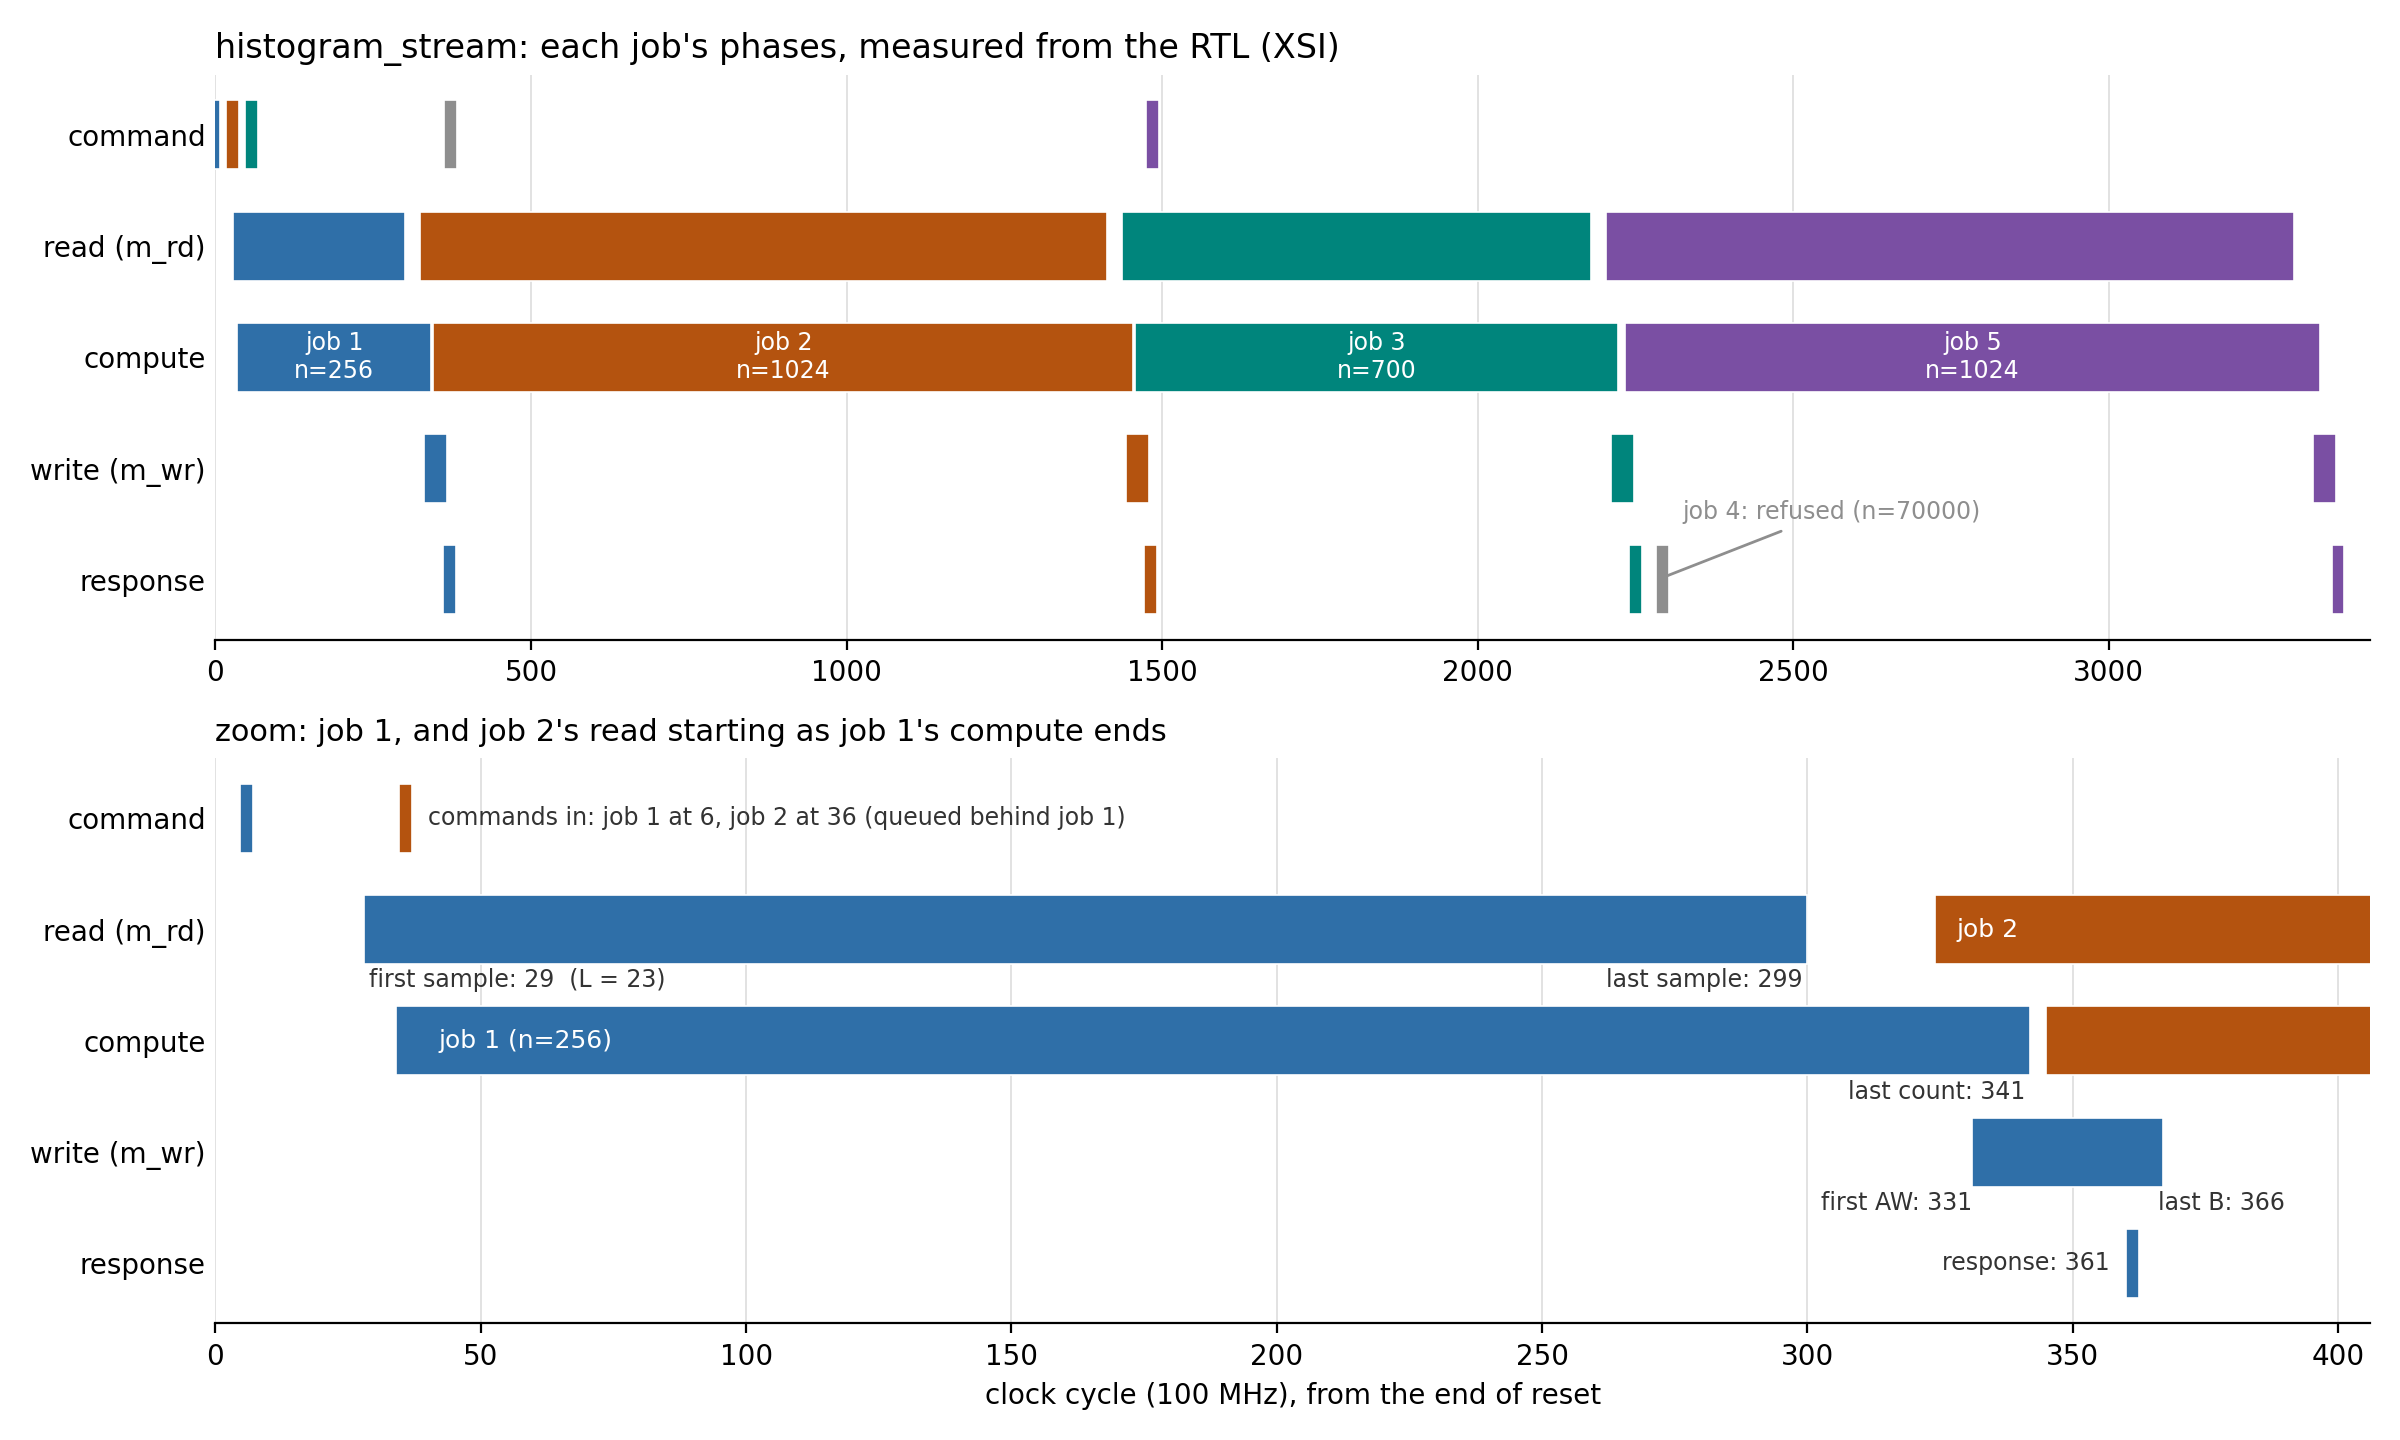
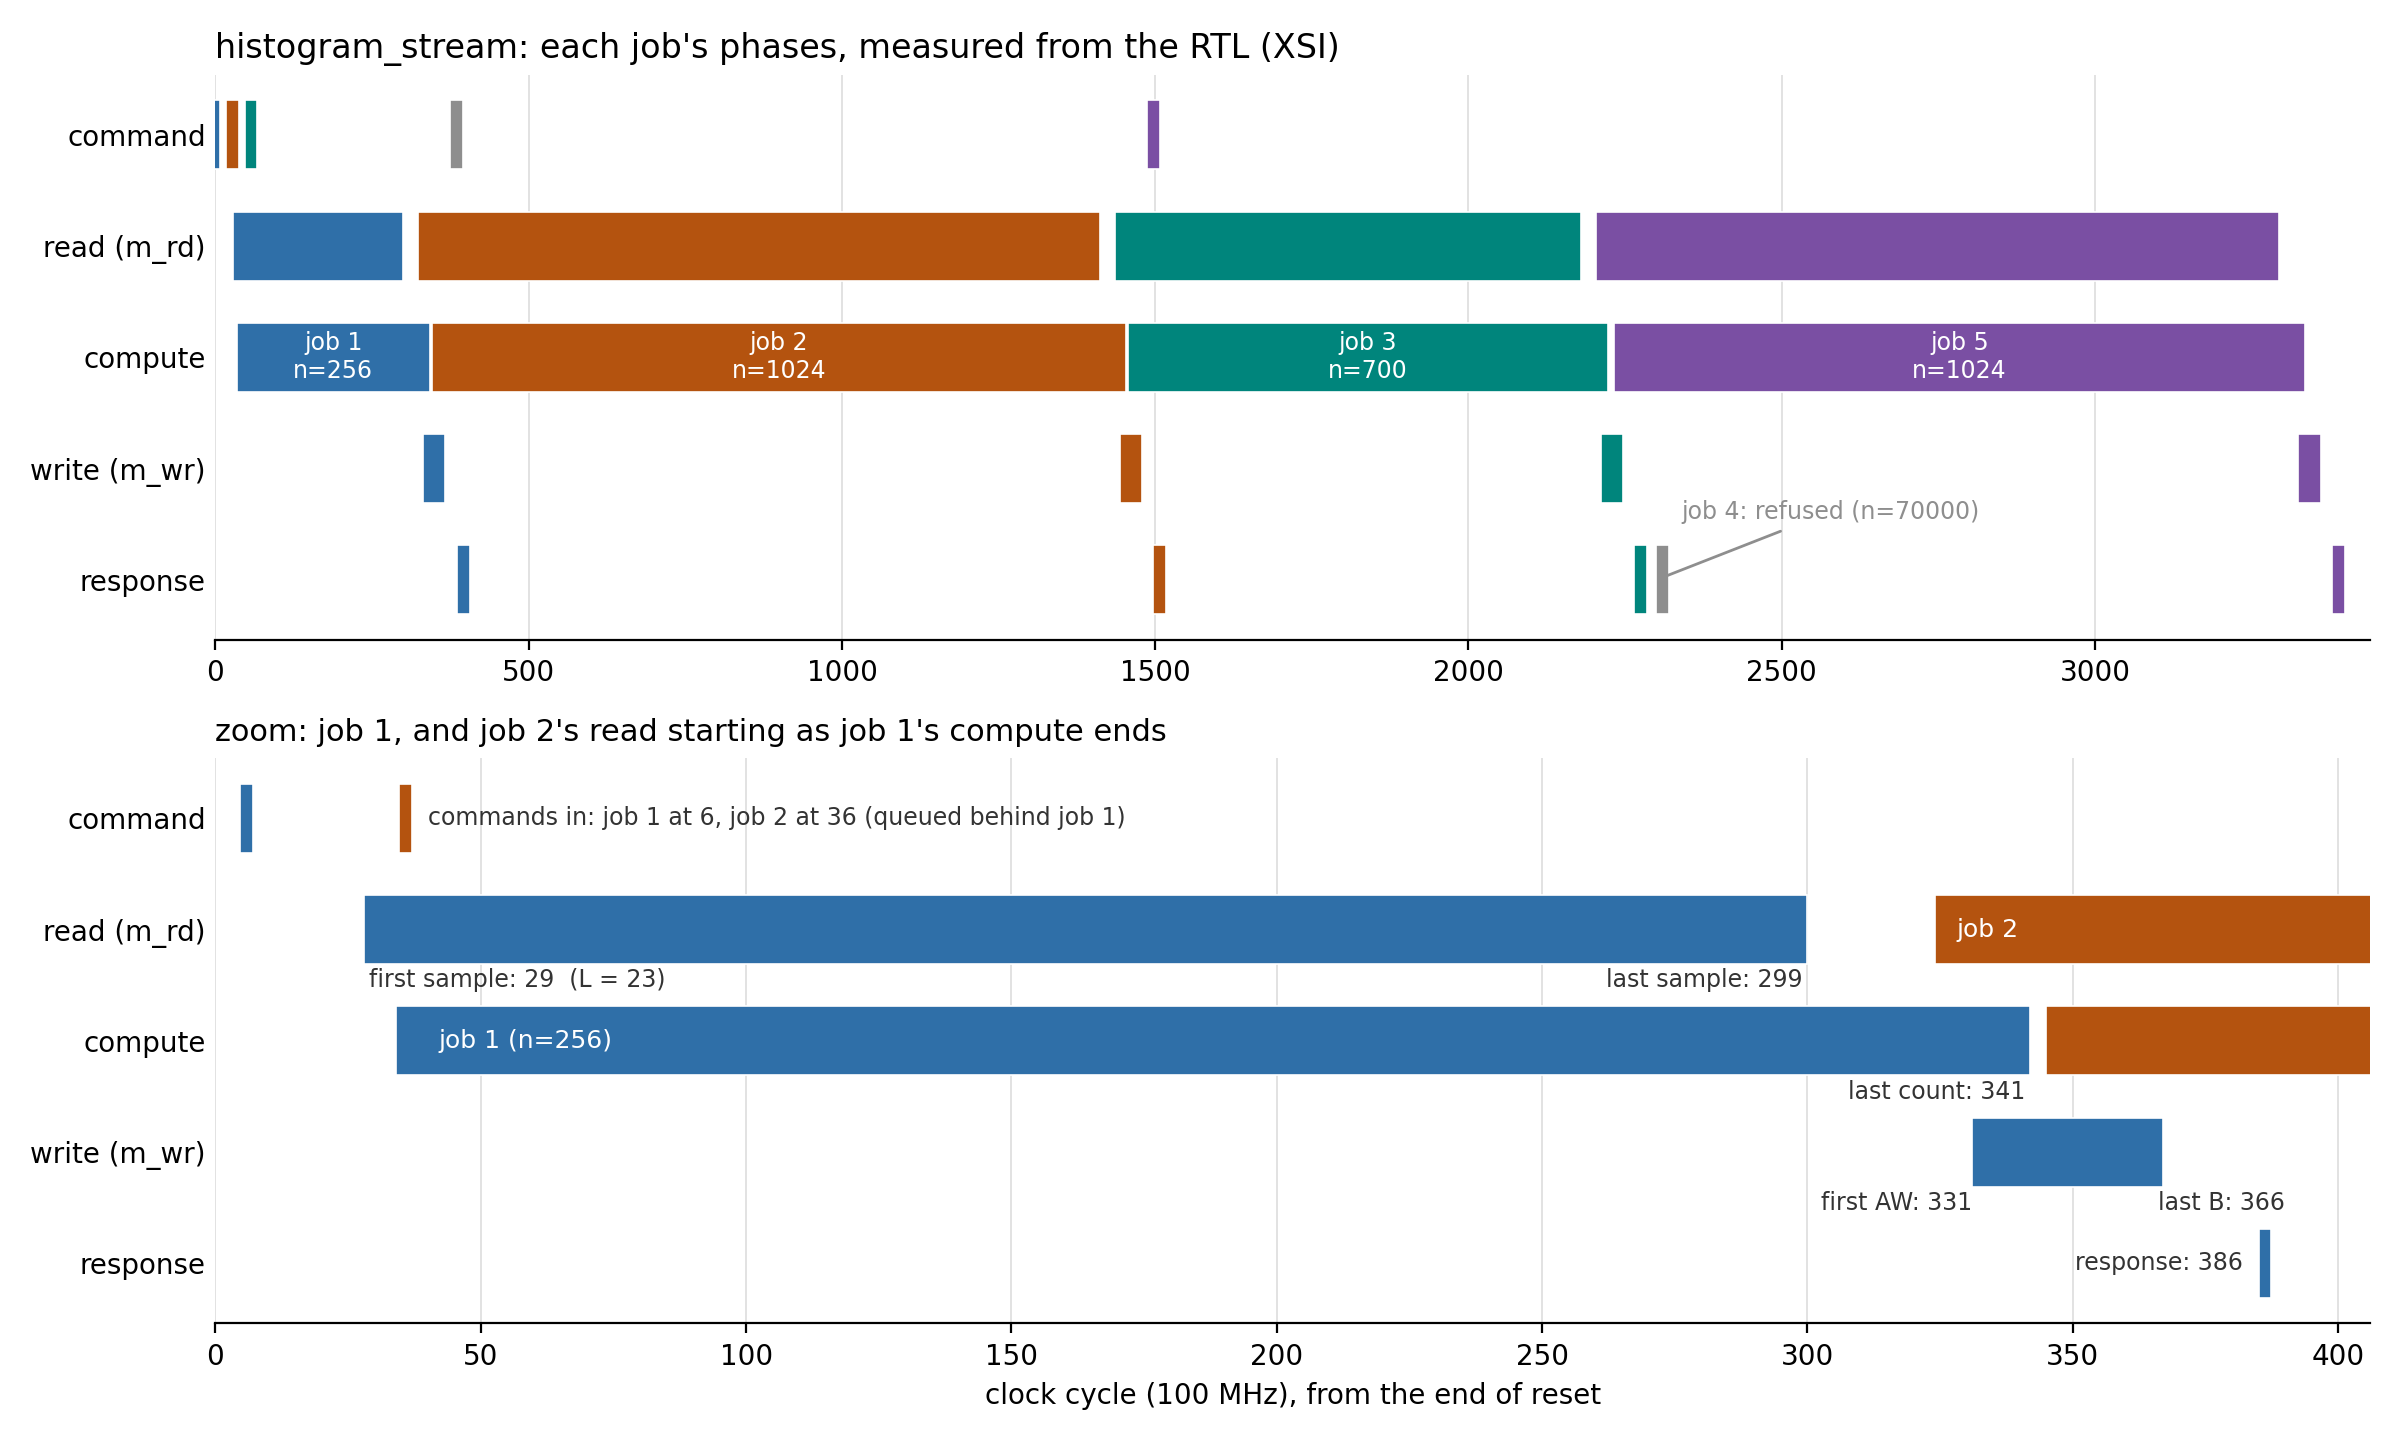
demos/histogram: re-measure against the fenced write adaptor
Waveflow's mem_w_stream_done_task now fences its MemComplete behind the
memory's last write response.  The response moves from 5 cycles before
the last B to 20 after it (4 fence, 12 for the 10-word MemComplete, 4 for
the response task); read, compute and write timing is unchanged.  New
table in README.md and stream.md, regenerated timeline_stream.png.

diff --git a/demos/histogram/hist_response.h b/demos/histogram/hist_response.h
@@ -1,9 +1,8 @@
 // hist_response.h -- the response task: one write completion in, one HistResp out.
 //
-// The write adaptor sends its MemComplete after its loop has handed the job's last count to
-// the m_axi port.  The job id and status ride in the cookie the control task put in the
-// MWCmd; the adaptor echoes it without reading it.  Measured: the response leaves a few
-// cycles BEFORE the bus acknowledges the last write (B) -- see the demo's README.
+// The write adaptor sends its MemComplete only after the memory acknowledges the job's last
+// write (B), so the response means the counts are in memory.  The job id and status ride in
+// the cookie the control task put in the MWCmd; the adaptor echoes it without reading it.
 #ifndef HIST_RESPONSE_H
 #define HIST_RESPONSE_H
 #include "hist_types.h"

diff --git a/docs/demos/histogram/stream.md b/docs/demos/histogram/stream.md
@@ -83,10 +83,10 @@ command's last word was accepted:
 
 | `n` | first sample (L) | last sample | last count | first write request | last write ack (B) | response |
 | --- | --- | --- | --- | --- | --- | --- |
-| 256 | 23 | 293 | 335 | 325 | 360 | 355 |
-| 1024 | 23 | 1109 | 1151 | 1141 | 1176 | 1171 |
-| 700 | 23 | 765 | 807 | 797 | 832 | 827 |
-| 70000 (refused) | - | - | - | - | - | 38 |
+| 256 | 23 | 293 | 335 | 325 | 360 | 380 |
+| 1024 | 23 | 1109 | 1151 | 1141 | 1176 | 1196 |
+| 700 | 23 | 765 | 807 | 797 | 832 | 852 |
+| 70000 (refused) | - | - | - | - | - | 42 |
 
 Reading one row, `n` = 256:
 
@@ -105,9 +105,10 @@ Reading one row, `n` = 256:
 - **The write**: 32 counts in two bursts of 16. The write mover's first request goes out
   before the compute is done (cycle 325), as soon as it has buffered a burst; the memory
   acknowledges the last burst at cycle 360.
-- **The response** leaves at cycle 355.
+- **The response** leaves at cycle 380, 20 after the last acknowledgement. Its makeup is
+  [below](#the-response-and-the-write-acknowledgement).
 
-A refused job never touches memory; its response comes 38 cycles after its command.
+A refused job never touches memory; its response comes 42 cycles after its command.
 
 ![Each job's phases, measured from the RTL](images/timeline_stream.png)
 
@@ -116,22 +117,34 @@ A refused job never touches memory; its response comes 38 cycles after its comma
 Yes. The top of the figure is the back-to-back run. The control task accepts the next command
 as soon as it has sent this one's, so job 2's memory commands are already queued when job 1's
 read finishes. Job 2's read starts at cycle 324, while job 1 is still computing its counts
-(last at 341), writing them (to 366) and sending its response (361): the end of each job hides
+(last at 341), writing them (to 366) and sending its response (386): the end of each job hides
 behind the start of the next.
 
 The **read port** is the bottleneck. It is busy from one job's first sample to its last, then
 idle for 25 cycles while the read mover takes its next 11-word command and issues the first
-request; the compute task follows it sample for sample. All five jobs finish at cycle 3354,
-against 3563 for the same jobs one at a time.
+request; the compute task follows it sample for sample. All five jobs finish at cycle 3379,
+against 3667 for the same jobs one at a time.
 
 ## The response and the write acknowledgement
 
-In every job, the response leaves **5 cycles before the memory acknowledges the last count**
-(`BVALID`): 355 against 360 for `n` = 256. The write mover sends its `MemComplete` as soon as
-its loop has handed the last count to the `m_axi` port, in the same state where it waits for
-the acknowledgement, so the completion does not wait for it. On a real bus, a host that reads
-the counts the instant it gets the response could read them before they land. This is the
-behavior of Waveflow's write mover as it is today, not of the histogram's tasks.
+A job is done when its counts are in memory, and the memory says so with the write response
+(`B`) of the last burst. The write mover sends its `MemComplete` only after that response: an
+`hls::fence` between its write loop and its completion orders the two. Without the fence,
+Vitis sends the completion while it is still waiting for `B`, and the response would leave
+before the counts are known to have landed.
+
+For `n` = 256, from the last `B` at cycle 366 (absolute):
+
+| Cycles | What |
+| --- | --- |
+| 366 to 370 | the fence: the write mover sees `B` and starts its completion |
+| 370 to 381 | the 10-word `MemComplete` to the response task |
+| 382 to 386 | the response task reads its last word and sends the 2-word `HistResp` |
+
+So the response leaves 20 cycles after the counts are in memory. Twelve of those are the
+`MemComplete`, 10 words of which 8 are the cookie, and only 2 of them used. That cost is now
+on every job's critical path, because the completion can no longer be sent while the mover
+waits for `B`.
 
 ## What the testbench's memory hides
 

diff --git a/demos/histogram/README.md b/demos/histogram/README.md
@@ -87,17 +87,16 @@ Cycles after each command's last word, each job run alone:
 
 | n | first sample (L) | last sample | last count | last write ack (B) | response |
 | --- | --- | --- | --- | --- | --- |
-| 256 | 23 | 293 | 335 | 360 | 355 |
-| 1024 | 23 | 1109 | 1151 | 1176 | 1171 |
-| 700 | 23 | 765 | 807 | 832 | 827 |
-| 70000 (refused) | - | - | - | - | 38 |
+| 256 | 23 | 293 | 335 | 360 | 380 |
+| 1024 | 23 | 1109 | 1151 | 1176 | 1196 |
+| 700 | 23 | 765 | 807 | 832 | 852 |
+| 70000 (refused) | - | - | - | - | 42 |
 
 The sample loop runs at II=1.  Back to back the jobs overlap: the next job's read starts
 while this one's counts are still being computed and written.
 
-**The response leaves 5 cycles before the bus acknowledges the last count.**  Waveflow's
-`mem_w_stream_done_task` writes its `MemComplete` once its loop has handed the last word to
-the `m_axi` port, in the same state that waits for the write response (`BVALID`), so the
-completion does not wait for it.  A host that reads the counts the moment the response arrives
-could, in principle, read them before they land.  This is the adaptor's behavior, not this
-kernel's; it is reported upstream rather than worked around here.
+**The response leaves 20 cycles after the bus acknowledges the last count.**  Waveflow's
+`mem_w_stream_done_task` fences its `MemComplete` behind the last write response (`B`): 4
+cycles for the fence, 12 for the 10-word `MemComplete` (8 words of it the cookie), 4 for the
+response task.  Requires the Waveflow write adaptor with the `hls::fence`; with the older
+adaptor the response left 5 cycles *before* `B`.

diff --git a/docs/demos/histogram/tasks.md b/docs/demos/histogram/tasks.md
@@ -130,9 +130,9 @@ static void hist_response(hls::stream<word_t>& wr_done, hls::stream<word_t>& res
 ```
 
 One write completion in, one response out. It waits for the write mover, not for the compute
-task, because a job is done only when its counts are in memory. (How closely the write mover's
-completion follows the memory's own acknowledgement is measured on the
-[stream page](stream.md#the-response-and-the-write-acknowledgement): it does not quite.)
+task, because a job is done only when its counts are in memory: the write mover sends its
+completion only after the memory acknowledges the last write (see the
+[stream page](stream.md#the-response-and-the-write-acknowledgement)).
 
 ## The data movers
 
@@ -141,7 +141,8 @@ The two memory tasks are Waveflow's, used as they are:
 - `mem_r_stream_task<32>`: read one `MRCmd`, then burst `len` words from `m_rd[addr]` onto
   `rd_data`, one per cycle.
 - `mem_w_stream_done_task<32>`: read one `MWCmd`, write `len` words from `wr_data` to
-  `m_wr[addr]`, then send a `MemComplete` carrying the command's cookie.
+  `m_wr[addr]`, wait for the memory's last write response, then send a `MemComplete` carrying
+  the command's cookie.
 
 Each owns one `m_axi` port and touches nothing else but streams. That split is a rule, not a
 style: a task that owns a memory port should do nothing but move words, so the tasks that hold
